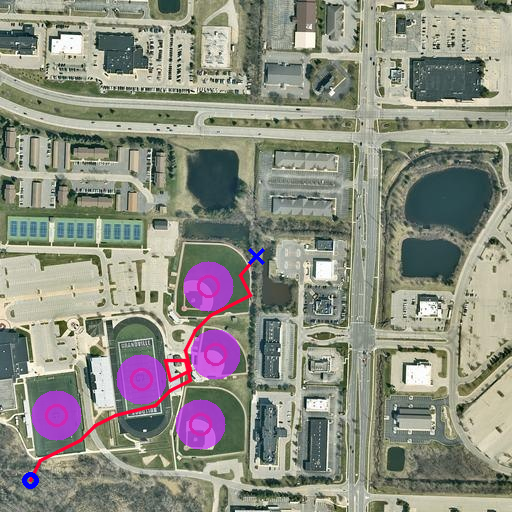
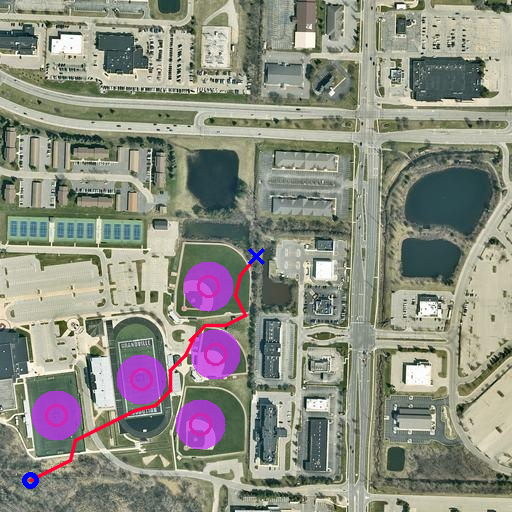
changed animation part v.2

Changed region(s): [[0.0625, 0.7812, 0.25, 0.9375], [0.375, 0.5312, 0.5, 0.6562], [0.3125, 0.6562, 0.375, 0.7812]]

diff --git a/PathPlanningKeyPoints.py b/PathPlanningKeyPoints.py
@@ -13,8 +13,8 @@ from PIL import Image
 
 
 startTime = time.time()
-image_path = '1_identified.jpg'
-img = cv2.imread(image_path)
+img_path = '1_identified.jpg'
+img = cv2.imread(img_path)
 gray = cv2.cvtColor(img, cv2.COLOR_BGR2GRAY)
 
 akaze = cv2.AKAZE_create()
@@ -128,11 +128,10 @@ def imageSave(img, keypoints, pathList, points, obstaclesList, algoName, cvAlgo)
     obs = image.copy()
 
     for obstacle in obstaclesList:
-        obs = cv2.circle(obs, (int(obstacle[0]),
-                                     int(obstacle[1])), obstacle[2], (250, 50, 200), -1)
-        newimg = cv2.addWeighted(obs, 0.7, image, 0.3, 0)
+        obs = cv2.circle(obs, (int(obstacle[0]), int(obstacle[1])), obstacle[2], (250, 50, 200), -1)
 
-    cv2.imwrite('Images/'+algoName+'.png', newimg)
+    image = cv2.addWeighted(obs, 0.7, image, 0.3, 0)
+    cv2.imwrite('Images/'+algoName+'.png', image)
     # print("Execution of "+algoName+" algorithm:", str(round((time.time() - startTime), 2))+'s')
 
 def graphCreation(pts, obstacles_list):
@@ -171,7 +170,7 @@ def image_discretization(image_path, discretization_step):
             pts.append([i, j])
     return pts, width, height
 
-def animate_path_on_image(image_path, coordinates, path, output_gif="animation.gif", interval=500, dpi=150):
+def animate_path_on_image(image_path, coordinates, obstaclesList, path, output_gif="animation.gif", interval=500, dpi=150):
     """
     Create an animation of a constructed path drawn over a given image background,
     and save the animation as a high-quality gif.
@@ -190,11 +189,16 @@ def animate_path_on_image(image_path, coordinates, path, output_gif="animation.g
       dpi: int, optional
           Dots per inch for the saved gif (default 150).
     """
-    img = cv2.imread(image_path)
-    img = cv2.drawMarker(img, (coordinates[N][0], coordinates[N][1]),
-                           (255, 0, 0), 1, markerSize = 12, thickness=3)
-    img = cv2.circle(img, (coordinates[N - 1][0], coordinates[N - 1][1]),
-                       3, (255, 0, 0), thickness=3)
+    img_bgr = cv2.imread(image_path)
+    img = cv2.cvtColor(img_bgr, cv2.COLOR_BGR2RGB)
+    img = cv2.drawMarker(img, (coordinates[N][0], coordinates[N][1]), (255, 0, 0), 1, markerSize=12, thickness=3)
+    img = cv2.circle(img, (coordinates[N - 1][0], coordinates[N - 1][1]), 3, (255, 0, 0), thickness=3)
+
+    obs = img.copy()
+    for obstacle in obstaclesList:
+        obs = cv2.circle(obs, (int(obstacle[0]), int(obstacle[1])), obstacle[2], (250, 50, 200), -1)
+
+    img = cv2.addWeighted(obs, 0.7, img, 0.3, 0)
 
     height, width = img.shape[0], img.shape[1]
 
@@ -210,8 +214,7 @@ def animate_path_on_image(image_path, coordinates, path, output_gif="animation.g
     xs, ys = zip(*path_coords)
 
     # Create an empty line and marker for the path.
-    line, = ax.plot([], [], 'r-', lw=2)
-    points, = ax.plot([], [], 'ro', markersize=3)
+    line, = ax.plot([], [], 'ro-', lw=2, markersize=2)
 
     # Set the axis limits based on the image size.
     ax.set_xlim(0, width)
@@ -221,16 +224,14 @@ def animate_path_on_image(image_path, coordinates, path, output_gif="animation.g
     # Initialization function for the animation.
     def init():
         line.set_data([], [])
-        points.set_data([], [])
-        return line, points
+        return line,
 
     # Update function to draw more of the path at each frame.
     def update(frame):
         current_x = xs[:frame + 1]
         current_y = ys[:frame + 1]
         line.set_data(current_x, current_y)
-        points.set_data(current_x, current_y)
-        return line, points
+        return line,
 
     # Create the animation.
     ani = animation.FuncAnimation(fig, update, frames=len(xs), init_func=init,
@@ -242,7 +243,7 @@ def animate_path_on_image(image_path, coordinates, path, output_gif="animation.g
     plt.close(fig)
     print(f"Animation saved as {output_gif}")
 
-def animate_bidirectional_path_on_image(image_path, coordinates, path_forward, path_backward,
+def animate_bidirectional_path_on_image(image_path, coordinates, obstaclesList, path_forward, path_backward,
                                         output_gif="bidirectional_animation.gif", interval=500, dpi=150):
     """
     Animate a bidirectional search (e.g., from Bidirectional A* or RRT-Connect)
@@ -267,14 +268,17 @@ def animate_bidirectional_path_on_image(image_path, coordinates, path_forward, p
           Dots per inch for the saved gif (default 150).
     """
     # Load the background image.
-    img = cv2.imread(image_path)
-    img = cv2.drawMarker(img, (coordinates[N][0], coordinates[N][1]),
-                           (255, 0, 0), 1, markerSize = 12, thickness=3)
-    img = cv2.circle(img, (coordinates[N - 1][0], coordinates[N - 1][1]),
-                       3, (255, 0, 0), thickness=3)
+    img_bgr = cv2.imread(image_path)
+    img = cv2.cvtColor(img_bgr, cv2.COLOR_BGR2RGB)
+    img = cv2.drawMarker(img, (coordinates[N][0], coordinates[N][1]), (255, 0, 0), 1, markerSize = 12, thickness=3)
+    img = cv2.circle(img, (coordinates[N - 1][0], coordinates[N - 1][1]), 3, (255, 0, 0), thickness=3)
 
-    # height, width = img.shape[0], img.shape[1]
-    # img = mpimg.imread(image_path)
+    obs = img.copy()
+    for obstacle in obstaclesList:
+        obs = cv2.circle(obs, (int(obstacle[0]), int(obstacle[1])), obstacle[2], (250, 50, 200), -1)
+
+    img = cv2.addWeighted(obs, 0.7, img, 0.3, 0)
+
     height, width = img.shape[0], img.shape[1]
 
     # Create a figure and axis.
@@ -295,8 +299,8 @@ def animate_bidirectional_path_on_image(image_path, coordinates, path_forward, p
 
     # Create line objects for both branches.
     # Here, we use one marker+line style for the forward branch and a different one for the backward branch.
-    forward_line, = ax.plot([], [], 'bo-', lw=2, markersize=3, label="Forward (start -> meeting)")
-    backward_line, = ax.plot([], [], 'go-', lw=2, markersize=3, label="Backward (goal -> meeting)")
+    forward_line, = ax.plot([], [], 'ro-', lw=2, markersize=2, label="Forward (start -> meeting)")
+    backward_line, = ax.plot([], [], 'bo-', lw=2, markersize=2, label="Backward (goal -> meeting)")
 
     # Optionally, set axis limits based on image dimensions.
     ax.set_xlim(0, width)
@@ -379,7 +383,7 @@ cvAlgo = 'AKAZE'
 # print(f'\n--- Feature detection Model: {cvAlgo} ---')
 print("\nFINDING THE PATH...")
 
-pts, width, height = image_discretization(image_path, discretization_step=5)
+pts, width, height = image_discretization(img_path, discretization_step=5)
 
 pts.append([startx, starty])
 pts.append([goalx, goaly])
@@ -413,12 +417,12 @@ algo_paths = [
     }
 ]
 
-
 for algo in algo_paths:
     if algo["name"] in ["RRT", "Bi-A*"]:
         animate_bidirectional_path_on_image(
-            image_path,
+            img_path,
             coordinates,
+            obstaclesList,
             algo["path_list"][1],
             algo["path_list"][2],
             output_gif=algo["gif"],
@@ -435,8 +439,9 @@ for algo in algo_paths:
         )
     else:
         animate_path_on_image(
-            image_path,
+            img_path,
             coordinates,
+            obstaclesList,
             algo["path_list"],
             output_gif=algo["gif"],
             interval=200
